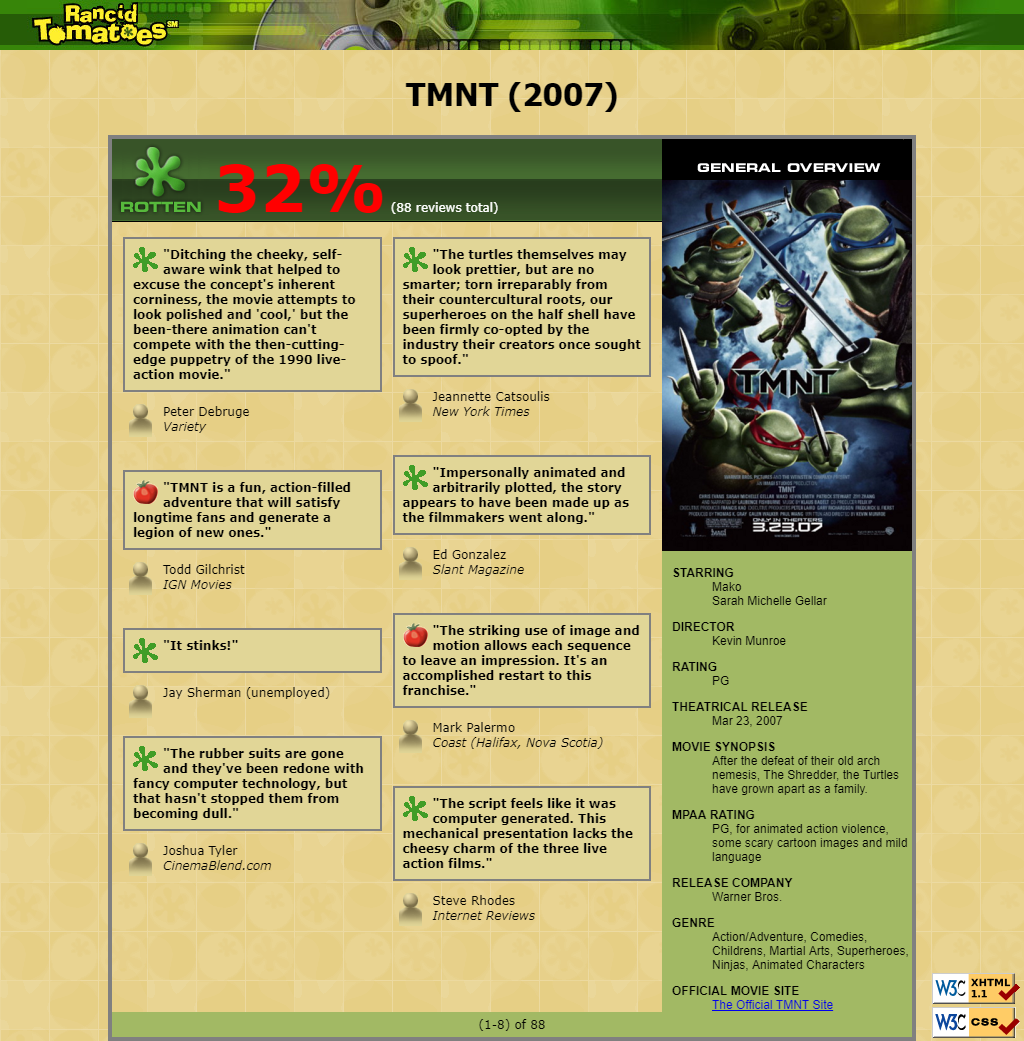
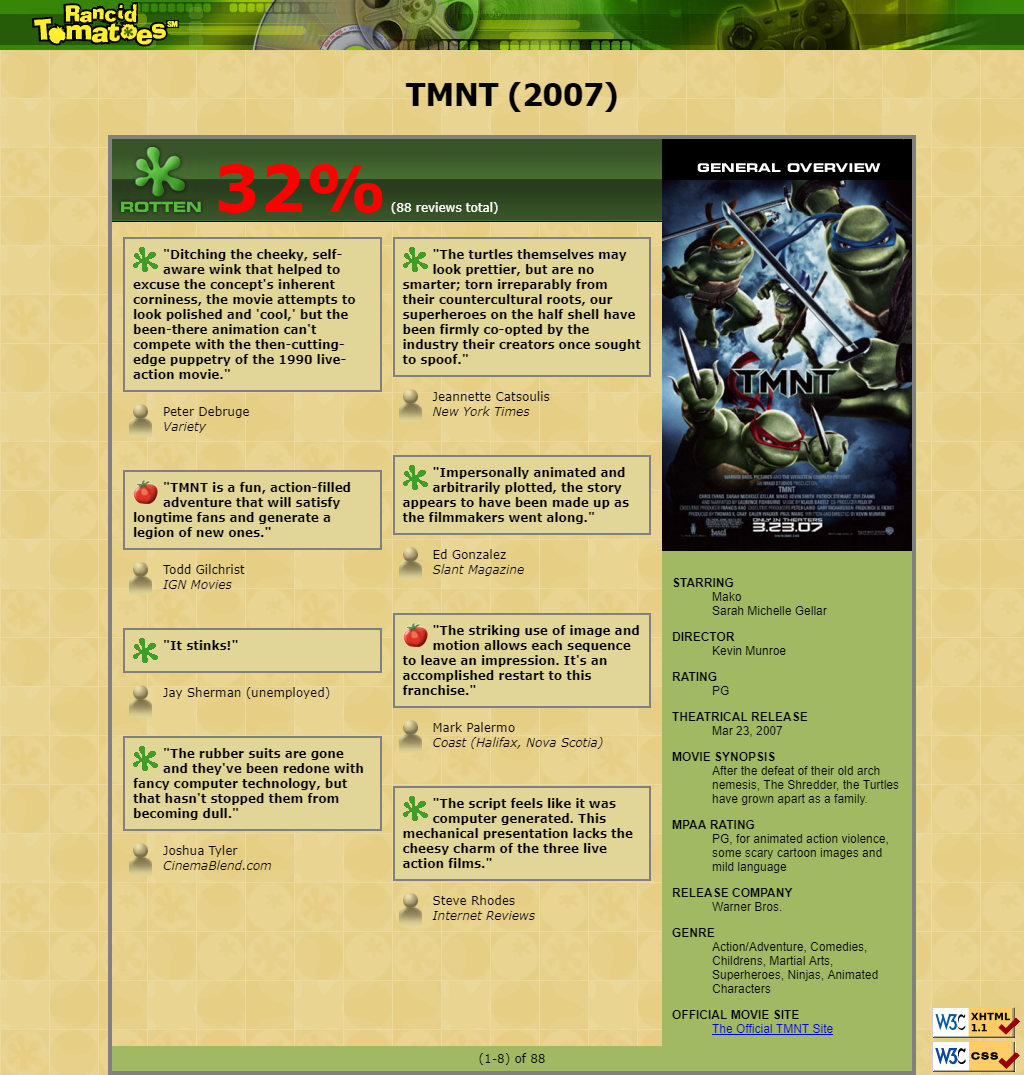
change the right desc-list's padding

diff --git a/hw2/movie.css b/hw2/movie.css
@@ -37,7 +37,7 @@ div#section-right {
 }
 div#desc-list {
     margin: 0px;
-    padding-left: 10px;
+    padding: 10px;
     font-size: 8pt;
     font-family: Arial, sans-serif;
 }
